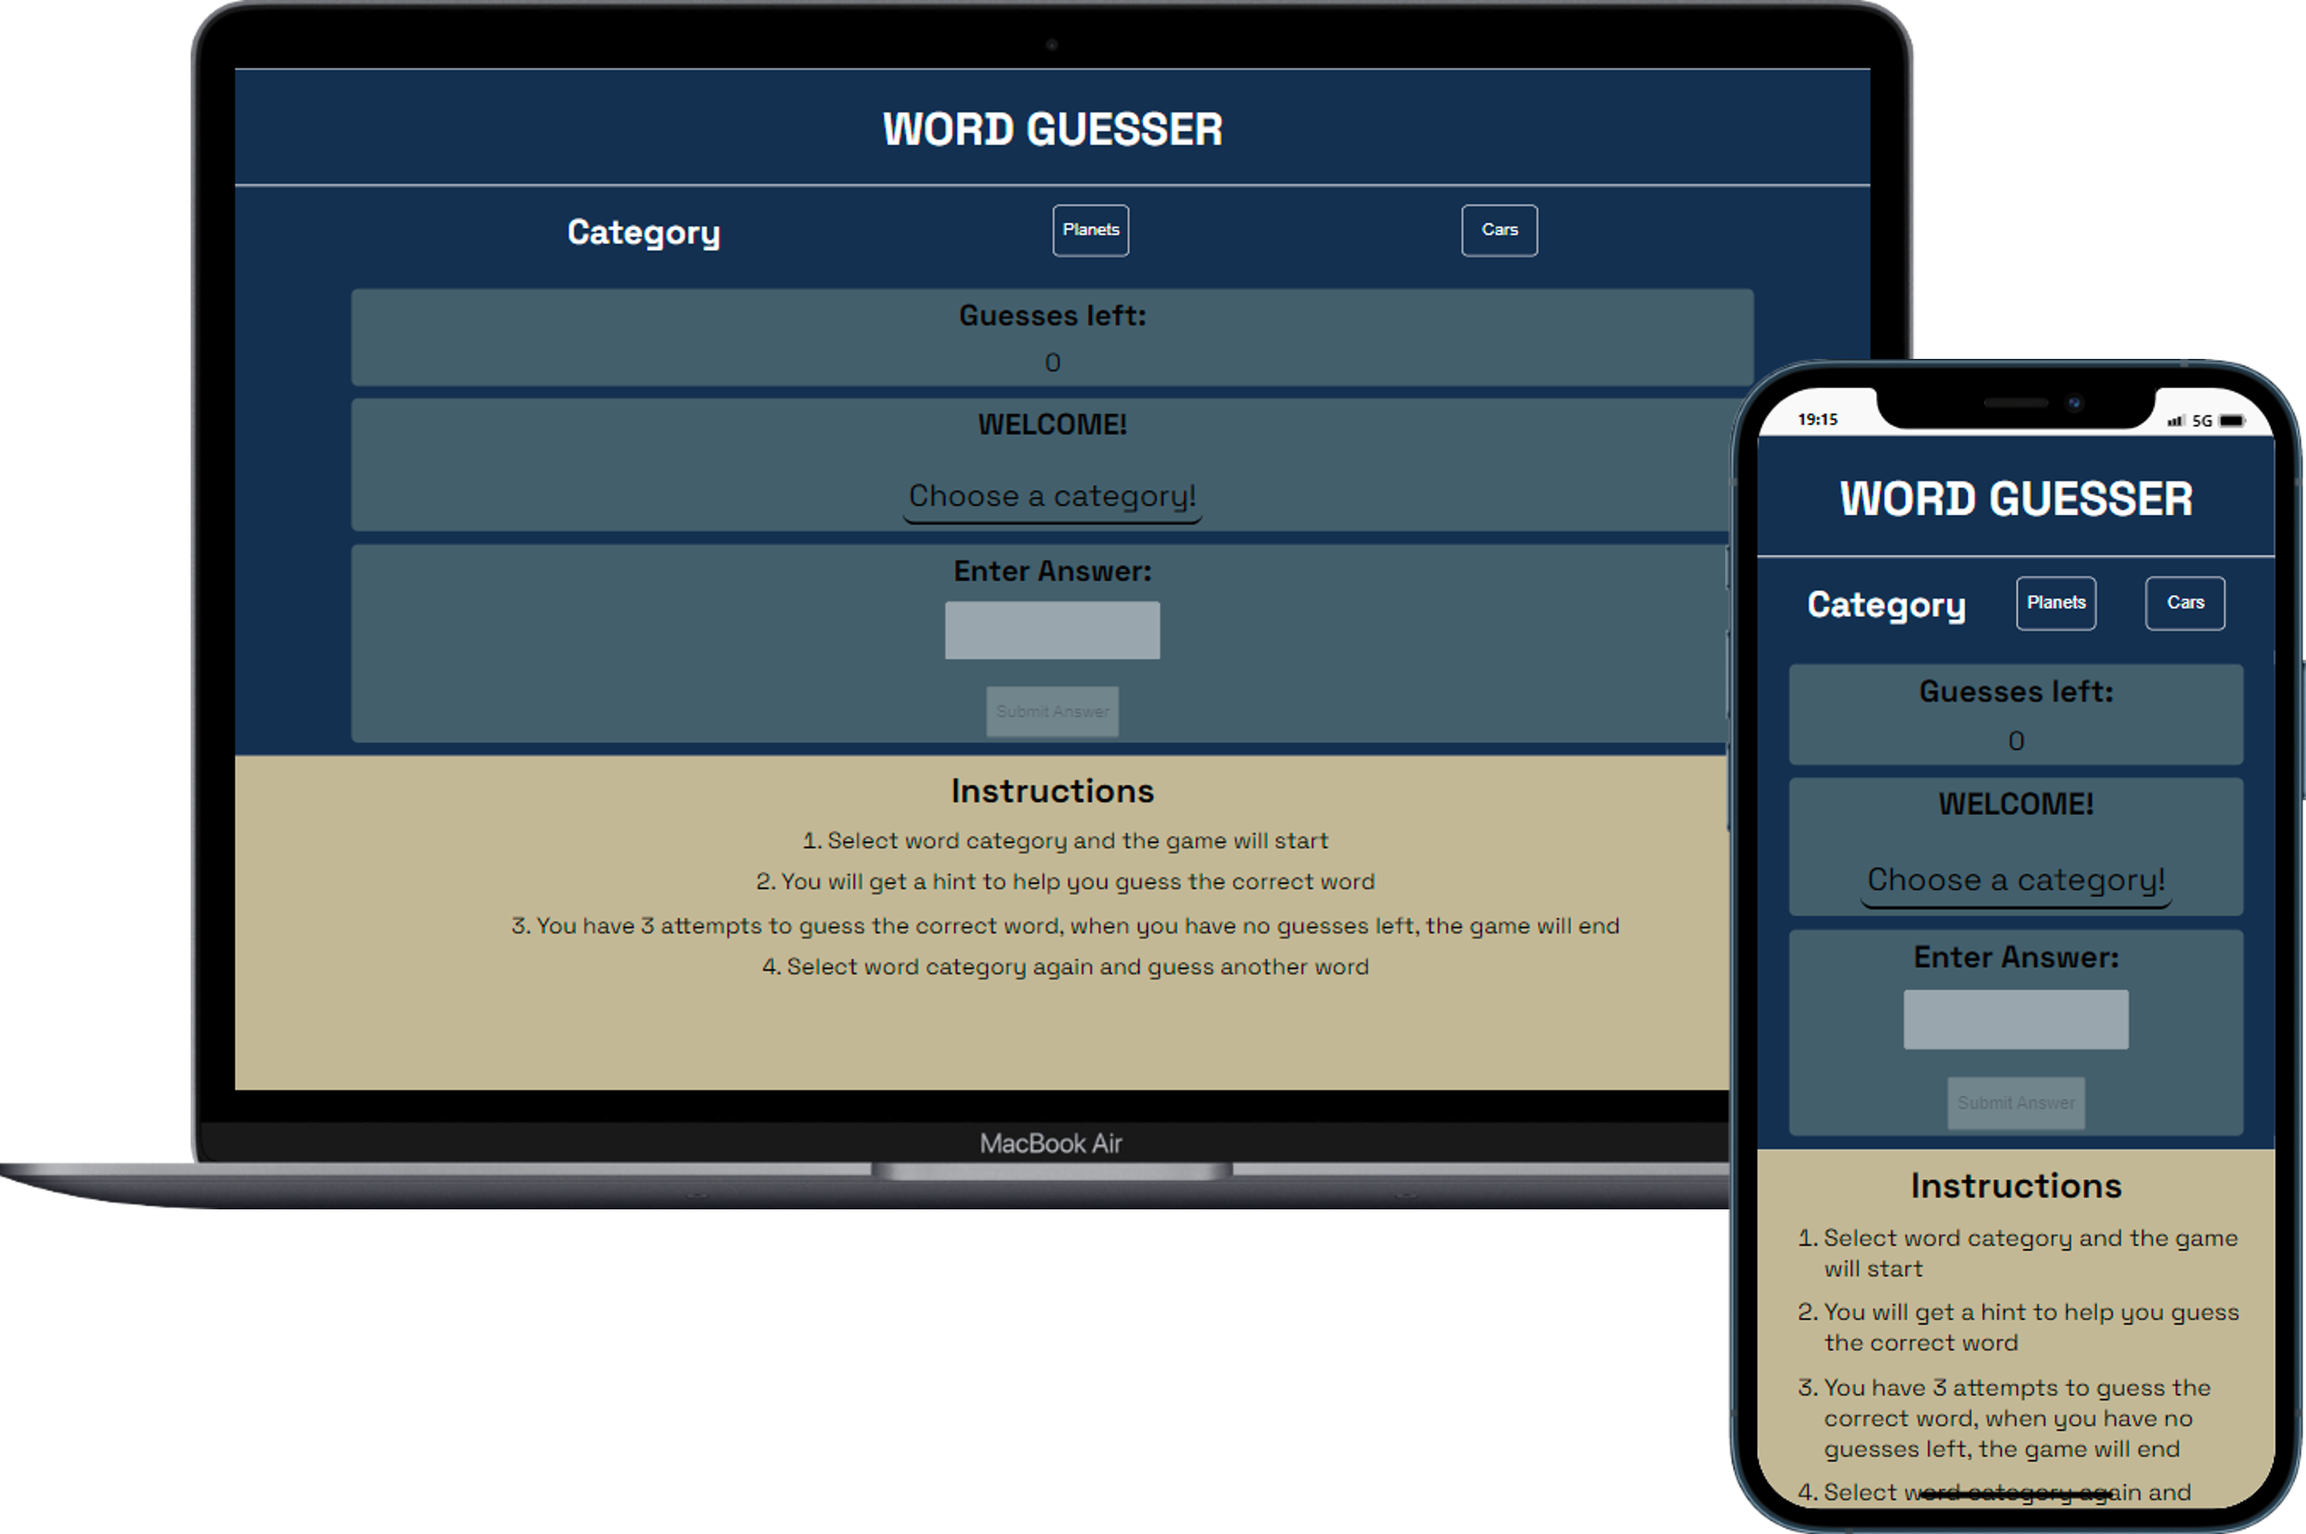
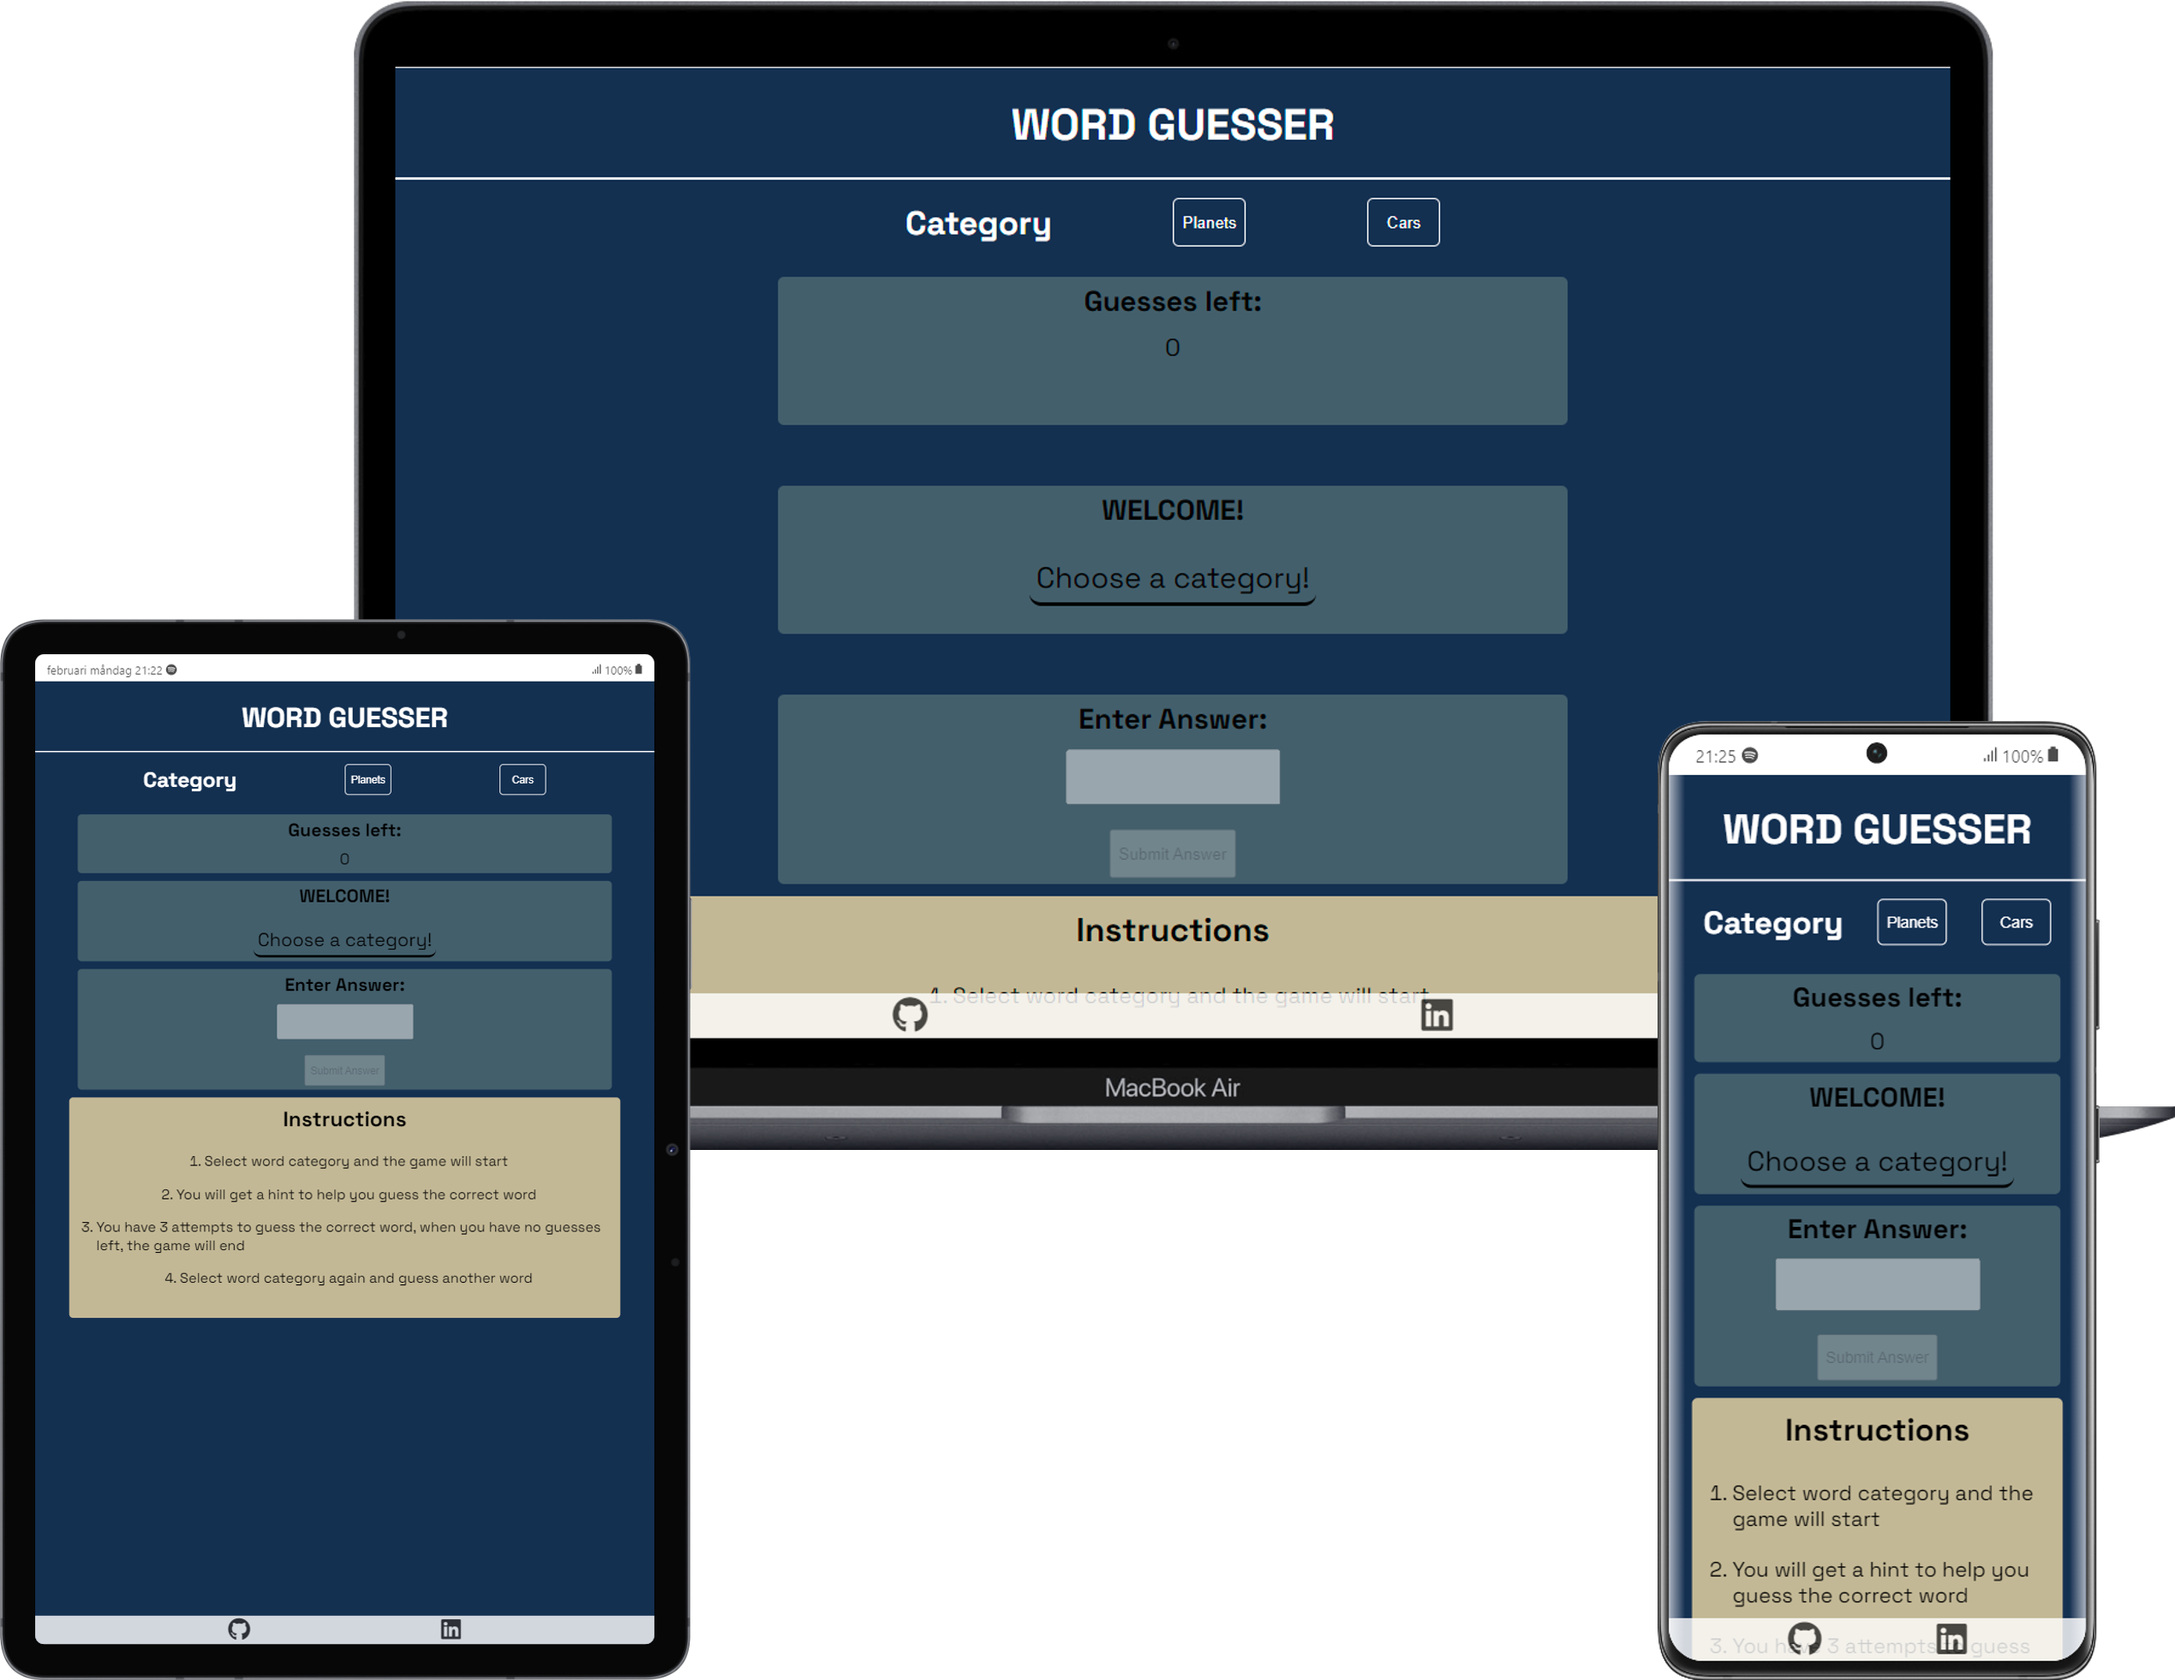
Add responsive design and footer section to index.html file and style.css file

diff --git a/assets/css/style.css b/assets/css/style.css
@@ -6,6 +6,7 @@ body {
     margin: 0px;
     font-family: 'Space Grotesk', sans-serif;
     font-size: 18px;
+    background-color: #143051;
 }
 
 /*This styles the header of the page*/
@@ -67,12 +68,11 @@ header>div>a {
     display: flex;
     width: 100%;
     height: auto;
-    background-color: #143051;
     flex-direction: column;
     gap: 10px;
     align-items: center;
     flex-wrap: nowrap;
-    justify-content: flex-start;
+    justify-content: center;
     margin: 10px;
 }
 
@@ -132,9 +132,11 @@ header>div>a {
 
 /*This styles the instruction area of the page*/
 .instruction-area {
-    width: 100%;
-    height: 400px;
+    width: 89%;
+    height: auto;
     background-color: #C3B895;
+    border-radius: 5px;
+    margin-bottom: 50px;
 }
 
 .instruction-area h2 {
@@ -145,18 +147,61 @@ header>div>a {
 }
 
 .instruction-area ol {
-    margin: 10px;
+    margin: 25px 5px 40px -5px;
     display: flex;
     align-items: center;
     flex-direction: column;
-    gap: 10px;
+    gap: 20px;
+}
+
+
+/* Footer section */
+
+footer {
+    justify-content: space-around;
+    text-align: center;
+    background-color: #fffffff2;
+    line-height: 30px;
+    position: fixed;
+    bottom: 0;
+    width: 100%;
+    opacity: 85%;
+}
+
+.social-media {
+    display: flex;
+    flex-direction: row;
+    justify-content: space-evenly;
+    margin: 3px;
+    padding: 0;
+    list-style-type: none;
+    font-size: 30px;
+}
+
+.social-media a {
+    color: #000000cc;
 }
 
 
 /* for big screen sizes from 900px wide and up */
 @media screen and (min-width: 900px) {
-    body {
-        width: 70%;
-        align-self: center;
+    .game {
+        height: 500px;
+        gap: 50px;
     }
+
+    .game > div {
+        width: 50%;
+        height: 33%;
+    }
+    
+    .category {
+        width: 50%;
+    }
+
+    .instruction-area ol {
+        gap: 20px;
+    }
+
+    
 }

diff --git a/index.html b/index.html
@@ -68,8 +68,22 @@
     </section>
 
     <footer>
+        <ul class="social-media">
+            <li>
+                <a href="https://github.com/Stojj2" target="_blank" rel="noopener"
+                    aria-label="Visit my github page (new tab)"><i class="fa-brands fa-github"></i></a>
+            </li>
+            <li>
+                <a href="https://www.linkedin.com/in/william-stojanovic-4aa941186/" target="_blank" rel="noopener"
+                    aria-label="Visit my linkedin (new tab)"><i class="fa-brands fa-linkedin"></i></a>
+            </li>
+        </ul>
     </footer>
 
+    <!--Font awesome-->
+    <script src="https://kit.fontawesome.com/759648c1cc.js" crossorigin="anonymous"></script>
+
+    <!--JavaScript-->
     <script src="assets/js/script.js"></script>
     <script src="assets/js/words.js"></script>
 </body>
